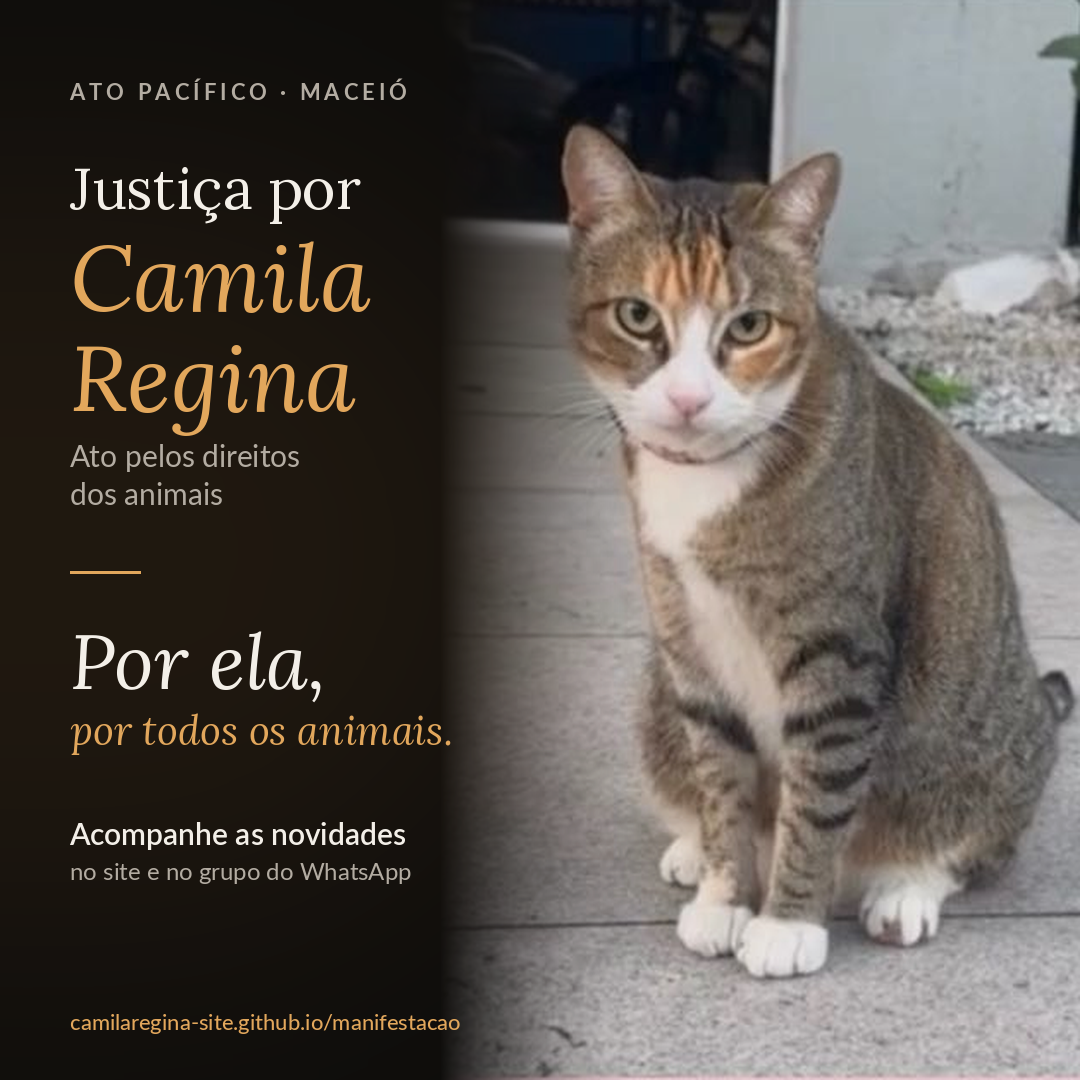
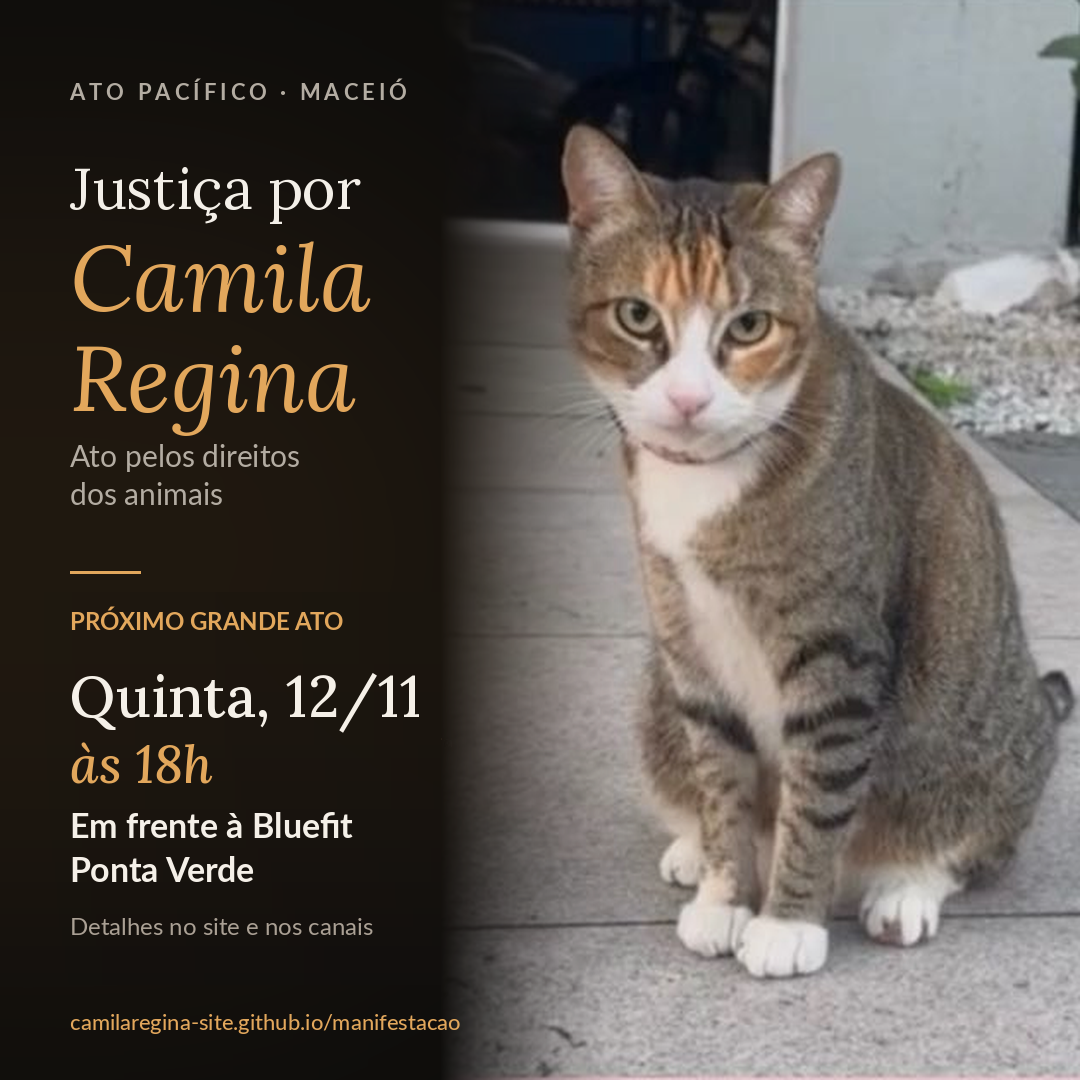
Add files via upload

Changed region(s): [[0.0611, 0.55, 0.4278, 0.825], [0.0611, 0.8556, 0.3361, 0.8861]]

diff --git a/index.html b/index.html
@@ -31,6 +31,8 @@
   <symbol id="i-play" viewBox="0 0 24 24"><path fill="currentColor" d="M8 5.5v13a1 1 0 0 0 1.5.86l11-6.5a1 1 0 0 0 0-1.72l-11-6.5A1 1 0 0 0 8 5.5z"/></symbol>
   <symbol id="i-check" viewBox="0 0 24 24"><path fill="none" stroke="currentColor" stroke-width="2.4" stroke-linecap="round" stroke-linejoin="round" d="M20 6 9 17l-5-5"/></symbol>
   <symbol id="i-phone" viewBox="0 0 24 24"><path fill="none" stroke="currentColor" stroke-width="2" stroke-linecap="round" stroke-linejoin="round" d="M22 16.9v3a2 2 0 0 1-2.2 2 19.8 19.8 0 0 1-8.6-3.1 19.5 19.5 0 0 1-6-6A19.8 19.8 0 0 1 2.1 4.2 2 2 0 0 1 4.1 2h3a2 2 0 0 1 2 1.7c.1.9.4 1.8.7 2.7a2 2 0 0 1-.5 2.1L8 9.8a16 16 0 0 0 6 6l1.3-1.3a2 2 0 0 1 2.1-.4c.9.3 1.8.6 2.7.7a2 2 0 0 1 1.7 2z"/></symbol>
+  <symbol id="i-insta" viewBox="0 0 24 24"><g fill="none" stroke="currentColor" stroke-width="2" stroke-linecap="round" stroke-linejoin="round"><rect x="3" y="3" width="18" height="18" rx="5"/><circle cx="12" cy="12" r="4"/><path d="M17.5 6.5h.01" stroke-width="2.6"/></g></symbol>
+  <symbol id="i-channel" viewBox="0 0 24 24"><g fill="none" stroke="currentColor" stroke-width="2" stroke-linecap="round" stroke-linejoin="round"><path d="M3 11v2a1 1 0 0 0 1 1h3l6 4V6L7 10H4a1 1 0 0 0-1 1z"/><path d="M16.5 8.5a5 5 0 0 1 0 7M19 6a8.5 8.5 0 0 1 0 12"/></g></symbol>
 </svg>
 
 <header class="hero">
@@ -42,13 +44,36 @@
     <h1>Justiça por<br><em>Camila Regina</em></h1>
     <p class="sub">Por ela, por todos os animais. Ato pelos direitos dos animais, em memória de Camila Regina, gata comunitária da Ponta Verde.</p>
     <ul class="chips" aria-label="Resumo">
-      <li><svg class="ico"><use href="#i-cal"/></svg> Grande ato realizado em 29/10</li>
+      <li><svg class="ico"><use href="#i-cal"/></svg> Atos realizados em 26/10 e 29/10</li>
+      <li id="chipProx" hidden><a href="#proximo"><svg class="ico"><use href="#i-pin"/></svg> Próximo grande ato</a></li>
       <li><a href="#reginaldo"><svg class="ico"><use href="#i-heart"/></svg> Reginaldo precisa de um lar</a></li>
     </ul>
   </div>
 </header>
 
 <main class="wrap">
+
+<section id="proximo" class="reveal" aria-labelledby="prox-t" hidden>
+  <h2 id="prox-t">Próximo grande ato</h2>
+  <article class="event main-event">
+    <p class="event-date" id="proxQuando"></p>
+    <ul class="route" id="proxRota"></ul>
+    <p class="prox-levar" id="proxLevar"></p>
+  </article>
+</section>
+
+<section class="reveal" aria-labelledby="acompanhe-t">
+  <h2 id="acompanhe-t">Acompanhe o caso</h2>
+  <div class="card">
+    <p class="follow-note" id="semProximo">Outros atos podem acontecer. Quando houver, a data e o local serão divulgados aqui e nos canais abaixo.</p>
+    <p class="follow-note" id="comProximo" hidden>Novidades do caso e os próximos passos são divulgados nos canais abaixo.</p>
+    <div class="follow">
+      <a class="btn ghost" data-link="INSTAGRAM" href="#" target="_blank" rel="noopener"><svg class="ico"><use href="#i-insta"/></svg><span>Instagram do caso<small>fotos e atualizações</small></span></a>
+      <a class="btn ghost" data-link="CANAL_WHATSAPP" href="#" target="_blank" rel="noopener"><svg class="ico"><use href="#i-channel"/></svg><span>Canal no WhatsApp<small>avisos e novidades</small></span></a>
+      <a class="btn primary" data-link="GRUPO_WHATSAPP" href="#" target="_blank" rel="noopener"><svg class="ico"><use href="#i-users"/></svg><span>Grupo no WhatsApp<small>conversa com a organização</small></span></a>
+    </div>
+  </div>
+</section>
 
 <section id="reginaldo" class="reveal featured" aria-labelledby="adote">
   <div class="featured-card">
@@ -71,34 +96,42 @@
 </section>
 
 <section class="reveal" aria-labelledby="ato-t">
-  <h2 id="ato-t">O grande ato</h2>
+  <h2 id="ato-t">Os atos</h2>
+  <p class="lead">No dia <strong>26 de outubro</strong>, fizemos um primeiro ato em frente à academia.</p>
   <p class="lead">Na quinta-feira, <strong>29 de outubro</strong>, nos manifestamos no sinal em frente ao Palato e na calçada da Bluefit Ponta Verde, onde Camila vivia. Nosso agradecimento a todas as pessoas que estiveram lá por ela e por todos os animais.</p>
   <div id="atoPreview" class="photo-grid" hidden></div>
-  <p id="atoVazio" class="empty">As fotos e vídeos do ato serão publicados aqui.</p>
+  <p id="atoVazio" class="empty">As fotos e vídeos dos atos serão publicados aqui.</p>
   <div class="center" id="atoCta" hidden><a class="btn primary" href="galeria.html"><svg class="ico"><use href="#i-play"/></svg> Ver todas as fotos e vídeos</a></div>
-</section>
-
-<section class="reveal center" aria-labelledby="novos-t">
-  <h2 id="novos-t">Novos atos</h2>
-  <div class="card">
-    <p class="mt0">O caso segue na Justiça e a mobilização continua. Se houver novos atos, a data e o local serão divulgados aqui e no grupo do WhatsApp. Entre no grupo para receber o aviso em primeira mão.</p>
-    <a class="btn primary" data-group href="#" target="_blank" rel="noopener"><svg class="ico"><use href="#i-users"/></svg> Entrar no grupo do WhatsApp</a>
-  </div>
 </section>
 
 <section class="reveal" aria-labelledby="caso">
   <h2 id="caso">O que aconteceu</h2>
-  <p class="lead">Camila era uma gata comunitária da Ponta Verde, cuidada todos os dias por uma protetora.</p>
+  <p class="lead">Camila era uma gata comunitária da Ponta Verde, cuidada todos os dias por uma protetora. Os acontecimentos mais recentes vêm primeiro.</p>
   <ol class="timeline">
-    <li><span class="when">29 de agosto</span>
-      <p>Camila desaparece. A protetora registra boletim de ocorrência.</p></li>
-    <li><span class="when">23 de outubro</span>
-      <p>Imagens divulgadas pela imprensa mostram, segundo a Polícia Civil, dois ex-funcionários do local agredindo a gata. Os dois foram <strong>indiciados por maus-tratos</strong>, e o caso está com o Ministério Público.</p></li>
-    <li><span class="when">26 de outubro</span>
-      <p>Primeiro ato, em frente à academia.</p></li>
-    <li class="now"><span class="when">29 de outubro</span>
-      <p>Grande ato: manifestação no sinal em frente ao Palato e na calçada da academia, dois meses depois do desaparecimento de Camila.</p></li>
+    <li class="now"><span class="when">9 de novembro</span>
+      <p>O Tribunal de Justiça de Alagoas substitui as prisões preventivas por medidas cautelares: os dois denunciados passam a <strong>responder ao processo em liberdade</strong>, com seis medidas cautelares definidas pela Justiça. A decisão não é absolvição, e a <strong>ação penal continua</strong>.</p></li>
+    <li><span class="when">4 de novembro</span>
+      <p>A ex-gerente é presa na Barra de São Miguel.</p></li>
+    <li><span class="when">31 de outubro</span>
+      <p>O ex-funcionário da manutenção é preso em Major Isidoro.</p></li>
+    <li><span class="when">30 de outubro</span>
+      <p>O Ministério Público de Alagoas <strong>denuncia os dois ex-funcionários</strong> por maus-tratos e pede a prisão preventiva, decretada pela Justiça.</p></li>
   </ol>
+  <details class="more-tl">
+    <summary>Ver desde o início</summary>
+    <ol class="timeline">
+      <li><span class="when">29 de outubro</span>
+        <p>Grande ato, no sinal em frente ao Palato e na calçada da academia, dois meses depois do desaparecimento de Camila.</p></li>
+      <li><span class="when">26 de outubro</span>
+        <p>Primeiro ato, em frente à academia.</p></li>
+      <li><span class="when">23 de outubro</span>
+        <p>A imprensa divulga imagens de câmeras de segurança. A Polícia Civil conclui o inquérito e <strong>indicia por maus-tratos</strong> os dois ex-funcionários apontados como envolvidos. O caso segue para o Ministério Público.</p></li>
+      <li><span class="when">Setembro e outubro</span>
+        <p>Quem cuidava de Camila a procura e pede imagens de câmeras da região. As imagens só vieram a público em 23 de outubro.</p></li>
+      <li><span class="when">29 de agosto</span>
+        <p>Camila desaparece.</p></li>
+    </ol>
+  </details>
   <p class="aside">Em nota, a academia disse que não participou nem sabia das agressões, que desligou os envolvidos e que apoia atos pacíficos.</p>
 
   <details class="tw">
@@ -112,6 +145,27 @@
       <ul class="sources">
         <li><a href="https://www.tnh1.com.br/noticia/nid/imagens-fortes-camera-flagrou-ex-funcionarios-de-academia-agredindo-gata-na-ponta-verde/" target="_blank" rel="noopener">TNH1 · Câmera flagrou ex-funcionários de academia agredindo gata na Ponta Verde (23/10)</a></li>
         <li><a href="https://www.gazetaweb.com/noticias/policia/academia-se-pronuncia-sobre-morte-de-gata-espancada-por-ex-funcionarios-na-ponta-verde-944547" target="_blank" rel="noopener">GazetaWeb · Academia se pronuncia sobre morte de gata (23/10)</a></li>
+      </ul>
+    </div>
+  </details>
+</section>
+
+<section class="reveal" aria-labelledby="imprensa-t">
+  <h2 id="imprensa-t">Na imprensa</h2>
+  <p class="lead">Reportagens publicadas sobre o caso, da mais recente para a mais antiga.</p>
+  <details class="tw">
+    <summary><svg class="ico"><use href="#i-alert"/></svg>
+      <span><strong>Ver as reportagens</strong>
+      <small>Algumas trazem o vídeo das agressões ou imagens fortes. Toque para abrir.</small></span></summary>
+    <div class="tw-body">
+      <ul class="news">
+        <li><span class="d">10/11</span><div><a href="https://www.gazetaweb.com/noticias/justica/caso-camila-regina-justica-manda-soltar-suspeitos-de-matar-gata-em-academia-da-ponta-verde-948374" target="_blank" rel="noopener">Justiça substitui as prisões por medidas cautelares e a ação penal continua</a><small>GazetaWeb</small></div></li>
+        <li><span class="d">04/11</span><div><a href="https://www.gazetaweb.com/noticias/policia/ex-gerente-de-academia-na-ponta-verde-e-presa-por-envolvimento-na-morte-da-gata-947110" target="_blank" rel="noopener">Ex-gerente da academia é presa na Barra de São Miguel</a><small>GazetaWeb</small></div></li>
+        <li><span class="d">04/11</span><div><a href="https://www.bnewsalagoas.com.br/noticias/policia/caso-camila-regina-ex-gerente-de-academia-e-presa-por-suposto-envolvimento-na-morte-de-gata.html" target="_blank" rel="noopener">Caso Camila Regina: ex-gerente é presa</a><small>BNews Alagoas</small></div></li>
+        <li><span class="d">31/10</span><div><a href="https://www.gazetaweb.com/noticias/policia/suspeita-de-ordenar-morte-da-gata-camila-regina-deve-se-entregar-a-policia-946533" target="_blank" rel="noopener">Denúncia do Ministério Público e prisão de um dos ex-funcionários</a><small>GazetaWeb</small></div></li>
+        <li><span class="d">29/10</span><div><a href="https://www.gazetaweb.com/alagoas/justica-por-camila-regina-novo-protesto-reune-defensores-dos-animais-na-ponta-verde-946072" target="_blank" rel="noopener">Novo protesto reúne defensores dos animais na Ponta Verde</a><small>GazetaWeb</small></div></li>
+        <li><span class="d">23/10</span><div><a href="https://www.gazetaweb.com/noticias/policia/academia-se-pronuncia-sobre-morte-de-gata-espancada-por-ex-funcionarios-na-ponta-verde-944547" target="_blank" rel="noopener">Academia se pronuncia sobre a morte da gata; nota na íntegra</a><small>GazetaWeb</small></div></li>
+        <li><span class="d">23/10</span><div><a href="https://www.tnh1.com.br/noticia/nid/imagens-fortes-camera-flagrou-ex-funcionarios-de-academia-agredindo-gata-na-ponta-verde/" target="_blank" rel="noopener">Câmera flagrou ex-funcionários agredindo a gata (imagens fortes)</a><small>TNH1</small></div></li>
       </ul>
     </div>
   </details>
@@ -170,8 +224,9 @@
 <footer>
   <div class="wrap">
     <svg class="ico ribbon" aria-hidden="true"><use href="#i-ribbon"/></svg>
+    <p class="foot-links"><a data-link="INSTAGRAM" href="#" target="_blank" rel="noopener">Instagram</a><a data-link="CANAL_WHATSAPP" href="#" target="_blank" rel="noopener">Canal no WhatsApp</a><a data-link="GRUPO_WHATSAPP" href="#" target="_blank" rel="noopener">Grupo no WhatsApp</a></p>
     <p>Organização: <strong>Justiça por Camila Regina</strong>, um grupo independente de pessoas que defendem os direitos dos animais.</p>
-    <p>As informações sobre o caso vêm de reportagens publicadas em 23/10/2026 pelo TNH1 e pela GazetaWeb. Os suspeitos foram indiciados e ainda não foram julgados.</p>
+    <p>As informações sobre o caso vêm de reportagens publicadas entre 23/10 e 10/11/2026 (veja "Na imprensa"). Os dois ex-funcionários foram denunciados pelo Ministério Público e respondem ao processo; ainda não houve julgamento.</p>
     <p>Esta página não coleta dados pessoais nem usa cookies.</p>
   </div>
 </footer>

diff --git a/galeria.js b/galeria.js
@@ -2,8 +2,9 @@
 const $ = (id) => document.getElementById(id);
 document.querySelectorAll("[data-group]").forEach(a => a.href = CONFIG.GRUPO_WHATSAPP);
 
-const ITENS = typeof GALERIA_ATO !== "undefined" ? GALERIA_ATO : [];
-const grid = $("grid"), lb = $("lb"), stage = $("lbStage");
+const ALBUNS = typeof GALERIA_ATOS !== "undefined" ? GALERIA_ATOS : [];
+const ITENS = ALBUNS.flatMap(a => a.itens.map(m => Object.assign({}, m, { _album: a.titulo })));
+const albumBox = $("albuns"), lb = $("lb"), stage = $("lbStage");
 let atual = 0, gatilho = null;
 
 /* ---------- Grade ---------- */
@@ -16,18 +17,28 @@ if (!ITENS.length) {
   if (videos) partes.push(videos + (videos === 1 ? " vídeo" : " vídeos"));
   $("contagem").textContent = partes.join(" · ");
 
-  ITENS.forEach((m, i) => {
-    const b = document.createElement("button");
-    b.type = "button"; b.className = "tile";
-    b.setAttribute("aria-label", (m.tipo === "video" ? "Abrir vídeo " : "Abrir foto ") + (i + 1) + (m.legenda ? ": " + m.legenda : ""));
-    const src = m.tipo === "video" ? m.poster : (m.thumb || m.src);
-    if (src) { const img = document.createElement("img"); img.src = src; img.alt = m.legenda || ""; img.loading = "lazy"; b.appendChild(img); }
-    if (m.tipo === "video") {
-      const p = document.createElement("span"); p.className = "play";
-      p.innerHTML = '<svg class="ico"><use href="#i-play"/></svg>'; b.appendChild(p);
-    }
-    b.addEventListener("click", () => abrir(i, b));
-    grid.appendChild(b);
+  let n = 0;
+  ALBUNS.forEach(al => {
+    if (!al.itens.length) return;
+    const sec = document.createElement("section"); sec.className = "album";
+    const h = document.createElement("h2"); h.textContent = al.titulo; sec.appendChild(h);
+    if (al.descricao) { const p = document.createElement("p"); p.className = "album-desc"; p.textContent = al.descricao; sec.appendChild(p); }
+    const gr = document.createElement("div"); gr.className = "photo-grid big"; sec.appendChild(gr);
+    al.itens.forEach(m => {
+      const i = n++;
+      const b = document.createElement("button");
+      b.type = "button"; b.className = "tile";
+      b.setAttribute("aria-label", (m.tipo === "video" ? "Abrir vídeo " : "Abrir foto ") + (i + 1) + (m.legenda ? ": " + m.legenda : ""));
+      const src = m.tipo === "video" ? m.poster : (m.thumb || m.src);
+      if (src) { const img = document.createElement("img"); img.src = src; img.alt = m.legenda || ""; img.loading = "lazy"; b.appendChild(img); }
+      if (m.tipo === "video") {
+        const p = document.createElement("span"); p.className = "play";
+        p.innerHTML = '<svg class="ico"><use href="#i-play"/></svg>'; b.appendChild(p);
+      }
+      b.addEventListener("click", () => abrir(i, b));
+      gr.appendChild(b);
+    });
+    albumBox.appendChild(sec);
   });
 }
 
@@ -45,7 +56,7 @@ function mostrar() {
     el = document.createElement("img"); el.src = m.src; el.alt = m.legenda || "Foto do grande ato";
   }
   stage.appendChild(el);
-  const cap = [m.legenda, m.autor ? (m.tipo === "video" ? "Vídeo: " : "Foto: ") + m.autor : ""].filter(Boolean).join(" · ");
+  const cap = [m._album, m.legenda, m.autor ? (m.tipo === "video" ? "Vídeo: " : "Foto: ") + m.autor : ""].filter(Boolean).join(" · ");
   $("lbCap").textContent = (cap ? cap + "  ·  " : "") + (atual + 1) + " / " + ITENS.length;
   const varios = ITENS.length > 1;
   $("lbPrev").hidden = $("lbNext").hidden = !varios;

diff --git a/galeria.html b/galeria.html
@@ -3,10 +3,10 @@
 <head>
 <meta charset="utf-8">
 <meta name="viewport" content="width=device-width, initial-scale=1">
-<title>Galeria do grande ato · Justiça por Camila Regina</title>
-<meta name="description" content="Fotos e vídeos do grande ato de 29/10, em memória da gata Camila Regina e por todos os animais.">
-<meta property="og:title" content="Galeria do grande ato · Justiça por Camila Regina">
-<meta property="og:description" content="Fotos e vídeos do grande ato de 29/10, na Ponta Verde.">
+<title>Galeria dos atos · Justiça por Camila Regina</title>
+<meta name="description" content="Fotos e vídeos dos atos de 26/10 e 29/10, em memória da gata Camila Regina e por todos os animais.">
+<meta property="og:title" content="Galeria dos atos · Justiça por Camila Regina">
+<meta property="og:description" content="Fotos e vídeos dos atos de 26/10 e 29/10, na Ponta Verde.">
 <meta property="og:image" content="https://camilaregina-site.github.io/manifestacao/card-ato.png">
 <meta name="theme-color" content="#0d0c0b">
 <link rel="stylesheet" href="style.css">
@@ -24,20 +24,20 @@
   <div class="wrap">
     <p class="back"><a href="./">← Voltar para a página principal</a></p>
     <p class="kicker"><svg class="ico ribbon"><use href="#i-ribbon"/></svg> Justiça por Camila Regina</p>
-    <h1>Grande ato<br><em>29 de outubro</em></h1>
-    <p class="sub">No sinal em frente ao Palato e na calçada da Bluefit Ponta Verde, em memória de Camila Regina e por todos os animais.</p>
+    <h1>Os atos<br><em>26 e 29 de outubro</em></h1>
+    <p class="sub">Fotos e vídeos dos atos em memória de Camila Regina e por todos os animais.</p>
     <p class="count-line" id="contagem"></p>
   </div>
 </header>
 
 <main class="wrap">
   <section aria-label="Fotos e vídeos">
-    <div id="grid" class="photo-grid big"></div>
-    <p id="vazio" class="empty" hidden>As fotos e vídeos do ato serão publicados aqui em breve.</p>
+    <div id="albuns"></div>
+    <p id="vazio" class="empty" hidden>As fotos e vídeos dos atos serão publicados aqui em breve.</p>
 
     <ul class="rules small-print">
-      <li>Imagens do ato, feitas em espaço público por quem participou. Quer pedir a retirada de uma imagem? Fale com a organização no <a data-group href="#" target="_blank" rel="noopener">grupo do WhatsApp</a>.</li>
-      <li>Tem fotos ou vídeos do ato? Envie para a organização pelo mesmo grupo.</li>
+      <li>Imagens dos atos, feitas em espaço público por quem participou. Quer pedir a retirada de uma imagem? Fale com a organização no <a data-group href="#" target="_blank" rel="noopener">grupo do WhatsApp</a>.</li>
+      <li>Tem fotos ou vídeos dos atos? Envie para a organização pelo mesmo grupo.</li>
     </ul>
   </section>
 </main>

diff --git a/script.js b/script.js
@@ -2,6 +2,32 @@ const $ = (id) => document.getElementById(id);
 
 document.querySelectorAll("[data-group]").forEach(a => a.href = CONFIG.GRUPO_WHATSAPP);
 
+// Links configuráveis: esconde se estiver vazio
+document.querySelectorAll("[data-link]").forEach(a => {
+  const url = CONFIG[a.dataset.link];
+  if (url && /^https:\/\//.test(url)) a.href = url; else a.hidden = true;
+});
+
+// Próximo grande ato
+(function () {
+  const p = typeof CONFIG.PROXIMO_ATO === "object" ? CONFIG.PROXIMO_ATO : null;
+  if (!p || !p.quando) return;
+  $("proxQuando").textContent = p.quando;
+  const ul = $("proxRota");
+  (p.pontos || []).forEach(pt => {
+    const li = document.createElement("li");
+    const d = document.createElement("div");
+    const st = document.createElement("strong"); st.textContent = pt.titulo || "";
+    d.appendChild(st);
+    if (pt.detalhe) { const sm = document.createElement("small"); sm.textContent = pt.detalhe; d.appendChild(sm); }
+    if (pt.mapa && /^https:\/\//.test(pt.mapa)) { const a = document.createElement("a"); a.href = pt.mapa; a.target = "_blank"; a.rel = "noopener"; a.textContent = "Ver no mapa"; d.appendChild(a); }
+    li.appendChild(d); ul.appendChild(li);
+  });
+  if (p.levar) $("proxLevar").textContent = p.levar; else $("proxLevar").hidden = true;
+  $("proximo").hidden = false; $("chipProx").hidden = false;
+  $("semProximo").hidden = true; $("comProximo").hidden = false;
+})();
+
 // Compartilhar
 const pageUrl = location.href.split("#")[0];
 $("waShare").href = "https://wa.me/?text=" + encodeURIComponent(CONFIG.TEXTO_COMPARTILHAR + " " + pageUrl);
@@ -20,7 +46,7 @@ document.querySelectorAll(".reveal").forEach(el => io ? io.observe(el) : el.clas
 
 // Prévia da galeria do ato (até 6 itens)
 (function () {
-  const itens = typeof GALERIA_ATO !== "undefined" ? GALERIA_ATO : [];
+  const itens = typeof GALERIA_ATOS !== "undefined" ? GALERIA_ATOS.flatMap(a => a.itens) : [];
   if (!itens.length) return;
   const box = $("atoPreview");
   const MAX = 6;

diff --git a/config.js b/config.js
@@ -5,8 +5,27 @@ const CONFIG = {
 
   GRUPO_WHATSAPP: "https://chat.whatsapp.com/JGRMLoCoVue0ylTl1f6JJ6",
 
+  // Deixe "" para esconder o botão/link
+  CANAL_WHATSAPP: "https://whatsapp.com/channel/0029VbDVLyS77qVbhWpkGR03",
+  INSTAGRAM: "https://www.instagram.com/justicaporcamilaregina/",
+
+  // Próximo grande ato. Deixe null para esconder a seção.
+  // Exemplo:
+  // PROXIMO_ATO: {
+  //   quando: "Sábado, 14 de novembro, às 17h",
+  //   pontos: [ { titulo: "Concentração", detalhe: "Praça X, Ponta Verde", mapa: "https://maps.google.com/..." } ],
+  //   levar: "Roupa preta, água e cartazes respeitosos."
+  // },
+  PROXIMO_ATO: {
+    quando: "Quinta-feira, 12 de novembro, às 18h",
+    pontos: [
+      { titulo: "Em frente à Bluefit Ponta Verde", detalhe: "Ato pela justiça: por Camila Regina, por todos os animais de Maceió e para que todos os envolvidos sejam responsabilizados.", mapa: "https://www.google.com/maps/search/?api=1&query=Bluefit+Ponta+Verde+Macei%C3%B3" }
+    ],
+    levar: "Ato pacífico. Leve água e cartazes com respeito, focados em Camila e nos direitos dos animais."
+  },
+
   // Texto que acompanha o link no botão "Enviar no WhatsApp"
-  TEXTO_COMPARTILHAR: "Justiça por Camila Regina: ato pelos direitos dos animais em Maceió. Veja as fotos do grande ato e ajude o Reginaldo a encontrar um lar.",
+  TEXTO_COMPARTILHAR: "Justiça por Camila Regina: novo ato dia 12/11 (quinta), às 18h, em frente à Bluefit Ponta Verde, em Maceió. Veja as fotos dos atos e ajude o Reginaldo a encontrar um lar.",
 
   // Texto do botão "Divulgar o Reginaldo"
   TEXTO_REGINALDO: "Reginaldo, gato manso e carinhoso da Ponta Verde (Maceió), precisa de um lar: adoção responsável ou lar temporário. Castração garantida, se necessário. Saiba mais:"

diff --git a/galeria-data.js b/galeria-data.js
@@ -1,13 +1,8 @@
-/* ============ GALERIA DO GRANDE ATO (29/10) ============
-   Para adicionar uma foto ou vídeo:
-   1) coloque o arquivo na pasta "ato/" do repositório;
-   2) acrescente uma linha na lista abaixo (a ordem daqui é a ordem na página).
-
-   Foto:   { tipo: "foto",  src: "ato/01.jpg", thumb: "ato/01-t.jpg", legenda: "", autor: "" },
-   Vídeo:  { tipo: "video", src: "ato/video-01.mp4", poster: "ato/video-01.jpg", legenda: "", autor: "" },
-
-   - thumb (miniatura), poster (capa do vídeo), legenda e autor são opcionais.
-   - Só vídeos .mp4. Cada arquivo precisa ter menos de 100 MB (o ideal é menos de 25 MB).
-   ========================================================= */
-const GALERIA_ATO = [
+/* Galeria dos atos: edite só aqui. Cada ato é um álbum com sua lista de itens.
+   foto:  { tipo: "foto",  src: "fotos/26-01.jpg", thumb: "fotos/26-01-p.jpg", legenda: "", autor: "" }
+   vídeo: { tipo: "video", src: "videos/26-01.mp4", poster: "fotos/26-01-v.jpg", legenda: "", autor: "" }
+   Vídeos: só .mp4 com menos de 100 MB. */
+const GALERIA_ATOS = [
+  { id: "29-10", titulo: "Grande ato · 29 de outubro", descricao: "No sinal em frente ao Palato e na calçada da Bluefit Ponta Verde.", itens: [ ] },
+  { id: "26-10", titulo: "Primeiro ato · 26 de outubro", descricao: "Em frente à academia.", itens: [ ] }
 ];

diff --git a/style.css b/style.css
@@ -247,3 +247,24 @@ footer p{max-width:520px;margin:10px auto}
   .js .reveal.in{opacity:1;transform:none}
 }
 @media (prefers-reduced-motion:reduce){ html{scroll-behavior:auto} }
+
+/* --- atualização: acompanhe, imprensa, histórico, álbuns --- */
+.follow{display:grid;gap:10px;margin-top:14px}
+@media(min-width:720px){.follow{grid-template-columns:repeat(3,1fr)}}
+.follow .btn{justify-content:flex-start;text-align:left}
+.follow .btn span{display:flex;flex-direction:column;line-height:1.25}
+.follow .btn small{font-size:.8rem;opacity:.75;font-weight:400}
+.follow-note{margin:0;color:var(--muted)}
+.prox-levar{margin:14px 0 0;color:var(--muted)}
+.more-tl{margin:10px 0 0}
+.more-tl>summary{cursor:pointer;color:var(--accent);font-weight:600;padding:8px 0}
+.more-tl .timeline{margin-top:10px}
+.news{list-style:none;margin:0;padding:0;display:grid;gap:14px}
+.news li{display:flex;gap:14px;align-items:flex-start}
+.news .d{flex:none;min-width:3.2rem;color:var(--accent);font-weight:700;font-variant-numeric:tabular-nums}
+.news a{font-weight:600}
+.news small{display:block;color:var(--muted);margin-top:2px}
+.foot-links{display:flex;flex-wrap:wrap;gap:6px 18px;justify-content:center}
+.album{margin:0 0 34px}
+.album h2{margin:0 0 4px}
+.album-desc{margin:0 0 14px;color:var(--muted)}
